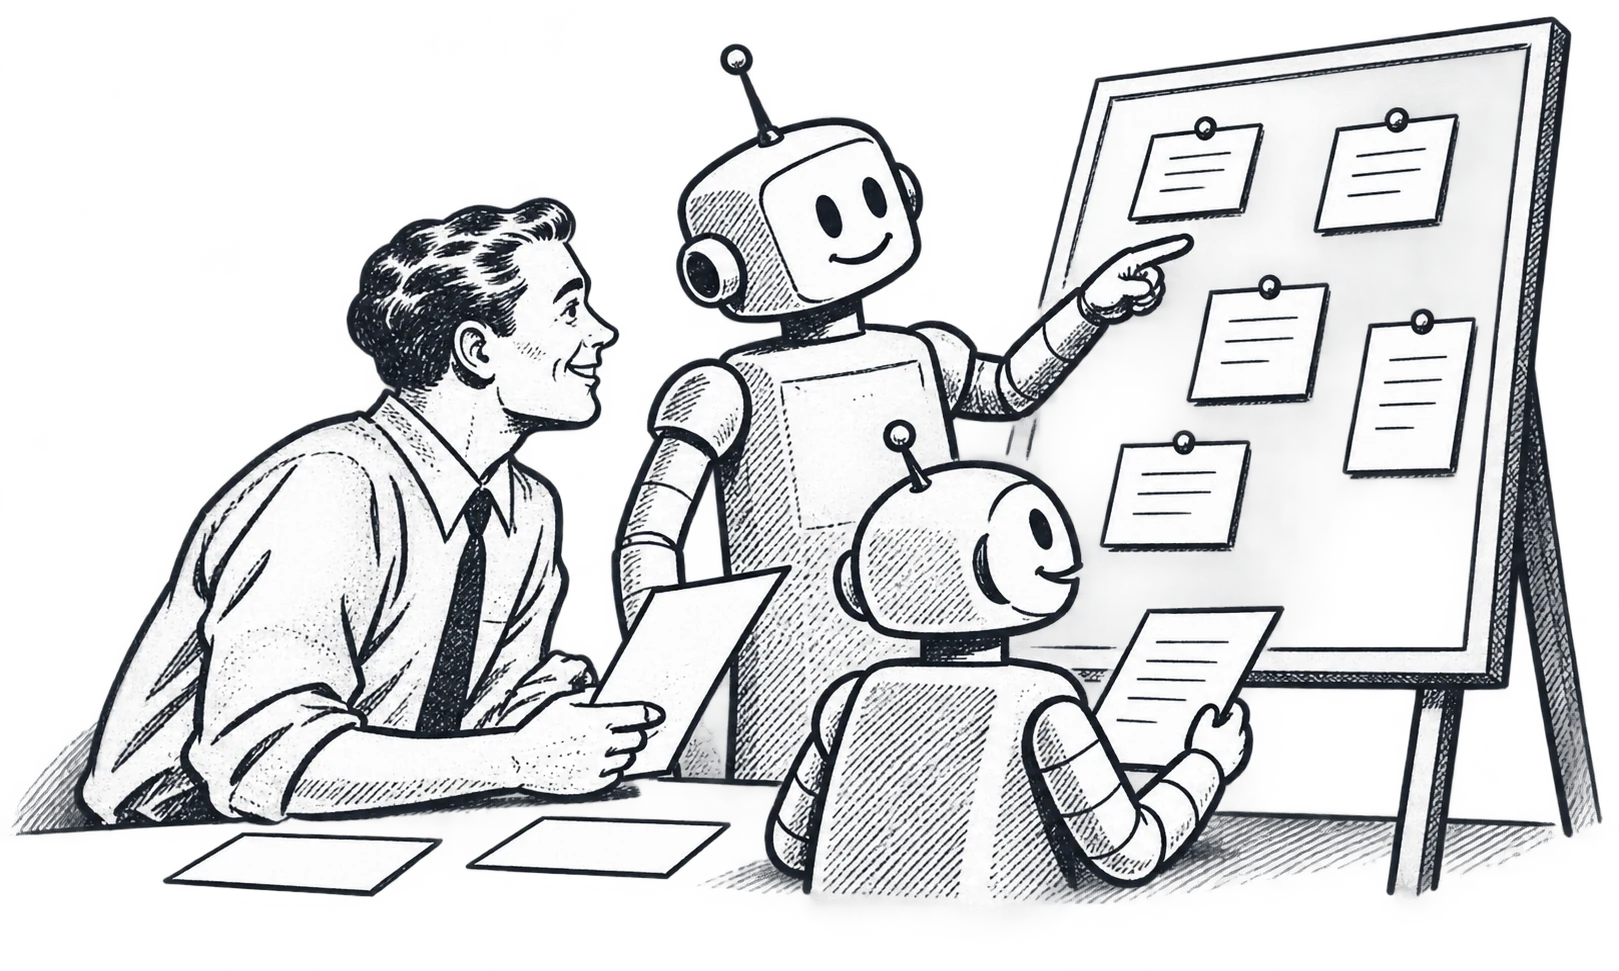
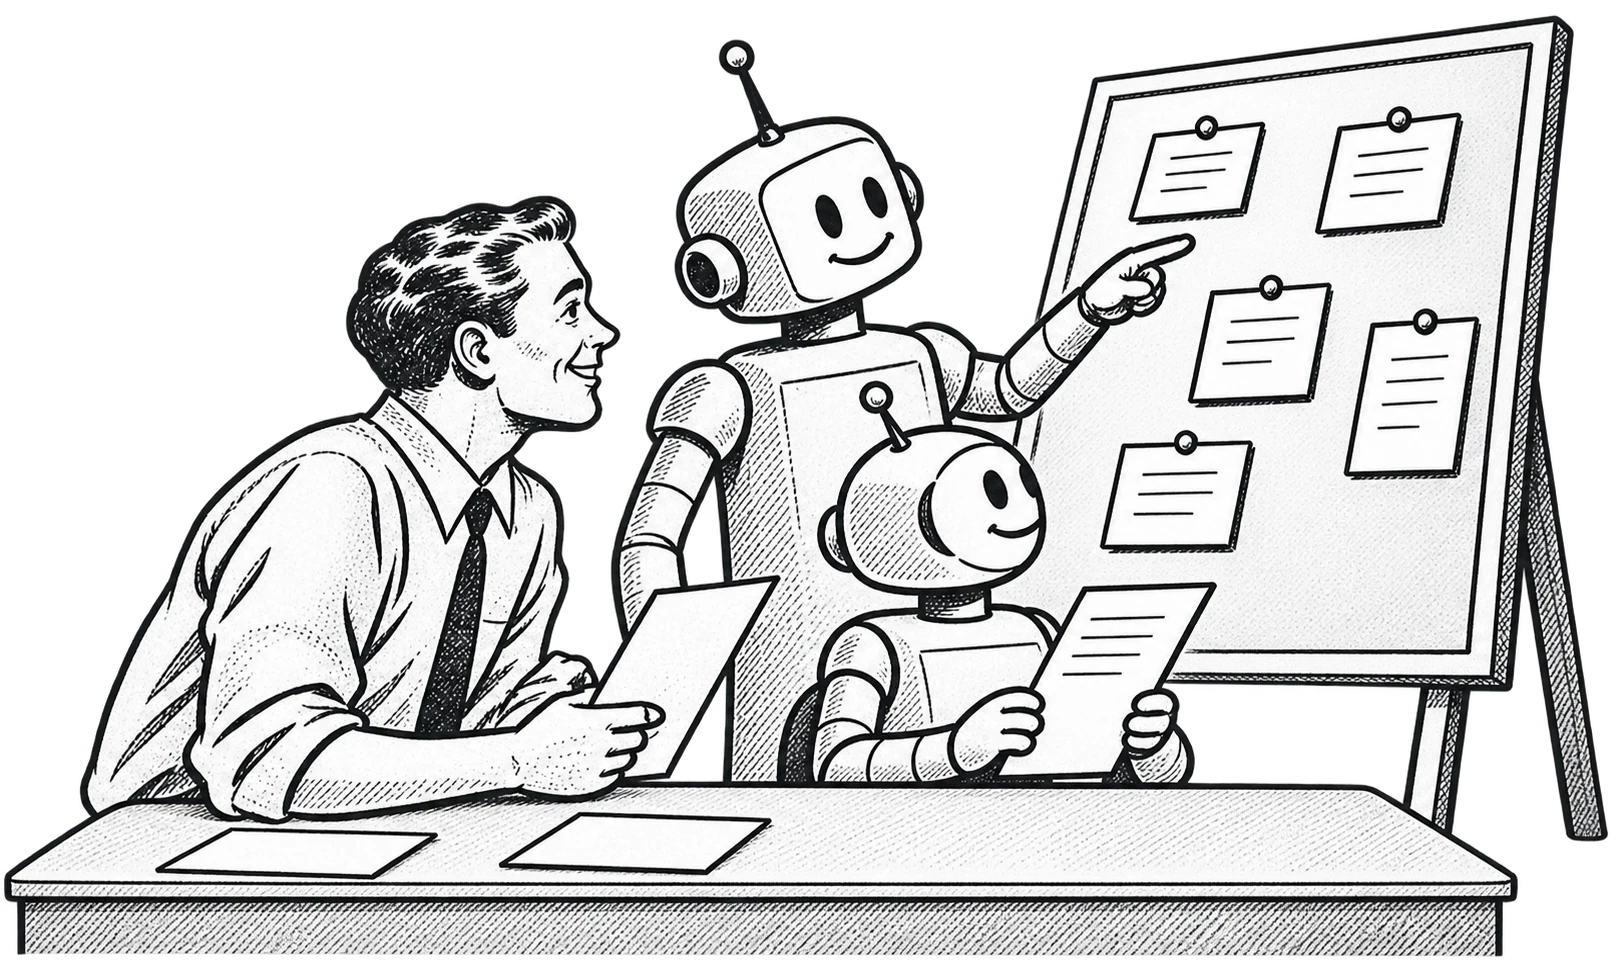
Correct robot and tabletop overlap in welcome illustration

diff --git a/index.php b/index.php
@@ -38,7 +38,7 @@ header('Cache-Control: no-store');
             <p id="entry-note">Open your boards</p>
           </div>
           <figure class="team">
-            <img src="assets/smarterboard-archive-team.webp" alt="A colleague and two friendly robots comparing notes at a message board." width="1619" height="971" fetchpriority="high">
+            <img src="assets/smarterboard-archive-team.webp" alt="A colleague and two friendly robots comparing notes at a message board." width="1620" height="971" fetchpriority="high">
           </figure>
         </div>
       </section>
